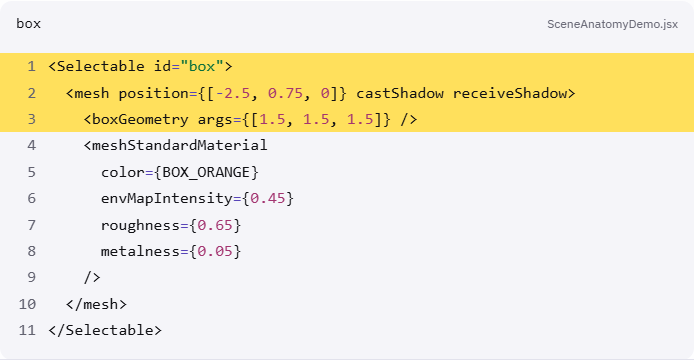
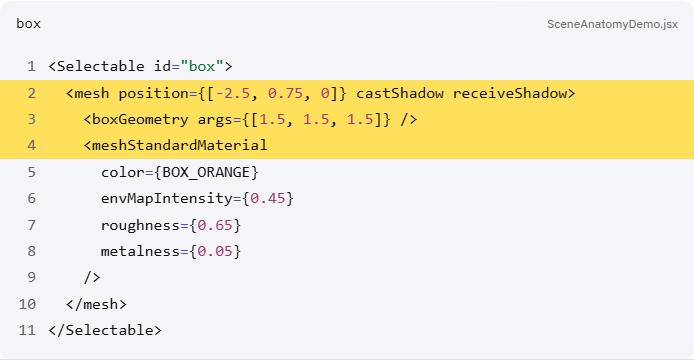
fix(lesson01): align mesh highlights and add plan insets
- Highlight mesh, geometry, and material in step 03
- Document overlapping extraction regions around the sphere
- Enable scene-plan insets for steps 03 and 06

Changed region(s): [[0.0, 0.1222, 1.0, 0.2444], [0.0, 0.3667, 1.0, 0.4583]]

diff --git a/seedling/src/scene/demos/sceneAnatomy/SceneAnatomyDemo.jsx b/seedling/src/scene/demos/sceneAnatomy/SceneAnatomyDemo.jsx
@@ -34,6 +34,11 @@ function SceneLights() {
   )
 }
 
+// These teaching regions overlap; they are not nested:
+//                     box     sphere     cone     torus
+// matte-and-metal     [------------]
+// curved-geometry             [-----------------------]
+// Editing the sphere changes both extracted snippets.
 function SceneEntities() {
   return (
     <>
